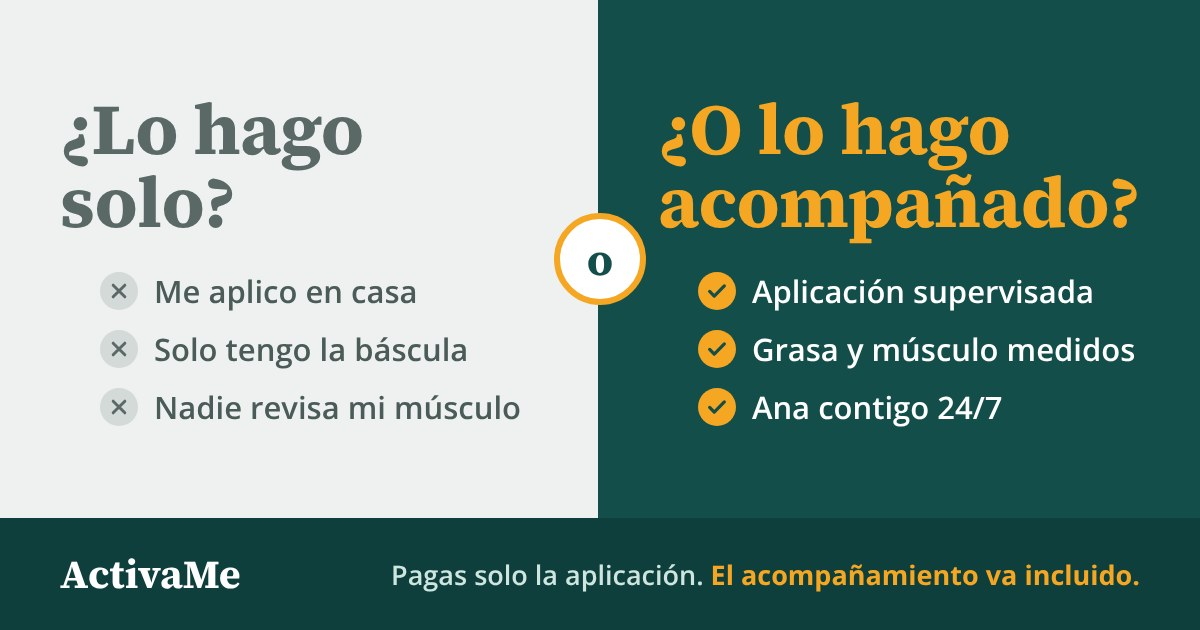
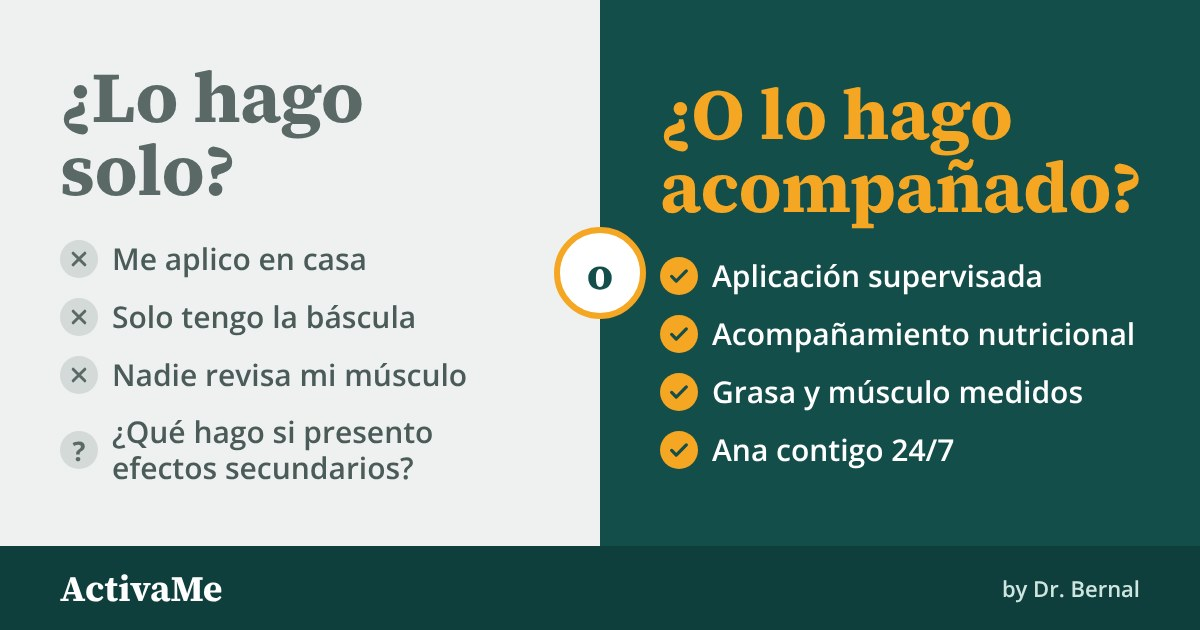
Imagen para compartir: nuevos puntos y sin renglón inferior
Agrega '¿Qué hago si presento efectos secundarios?' al lado de hacerlo solo
y 'Acompañamiento nutricional' al lado acompañado; quita el renglón de
'Pagas solo la aplicación'.

Claude-Session: https://claude.ai/code/session_011TLHW5WEngCcuLzGeEkBkv

diff --git a/programa/index.html b/programa/index.html
@@ -12,7 +12,7 @@
 <meta property="og:url" content="https://consulta.activame.mx/programa">
 <meta property="og:title" content="¿Lo hago solo o lo hago acompañado? · ActivaMe">
 <meta property="og:description" content="Pagas solo la aplicación; el acompañamiento va incluido. Supervisión médica, InBody 970s y dinamometría en Chihuahua con el Dr. Héctor Bernal.">
-<meta property="og:image" content="https://consulta.activame.mx/og-acompanamiento.jpg">
+<meta property="og:image" content="https://consulta.activame.mx/og-acompanamiento.jpg?v=2">
 <meta property="og:image:width" content="1200">
 <meta property="og:image:height" content="630">
 <meta property="og:image:alt" content="¿Lo hago solo o lo hago acompañado? Acompañamiento ActivaMe: pagas solo la aplicación, el acompañamiento va incluido.">
@@ -21,7 +21,7 @@
 <meta name="twitter:card" content="summary_large_image">
 <meta name="twitter:title" content="¿Lo hago solo o lo hago acompañado? · ActivaMe">
 <meta name="twitter:description" content="Pagas solo la aplicación; el acompañamiento va incluido. Supervisión médica en Chihuahua.">
-<meta name="twitter:image" content="https://consulta.activame.mx/og-acompanamiento.jpg">
+<meta name="twitter:image" content="https://consulta.activame.mx/og-acompanamiento.jpg?v=2">
 
 <link rel="preconnect" href="https://fonts.googleapis.com">
 <link rel="preconnect" href="https://fonts.gstatic.com" crossorigin>
